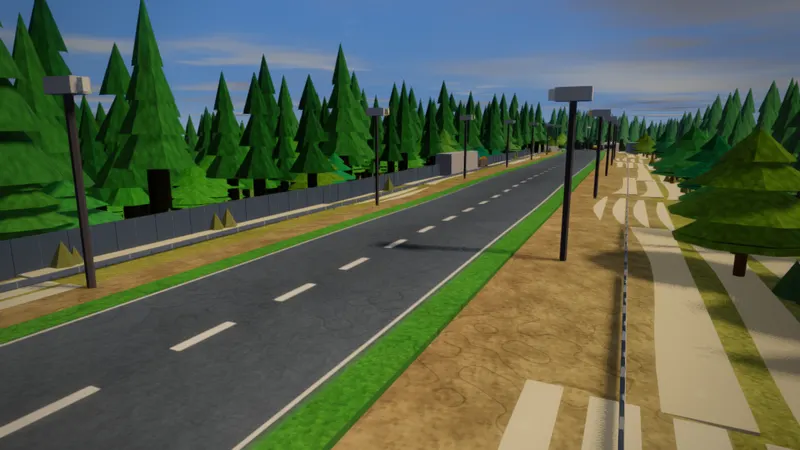
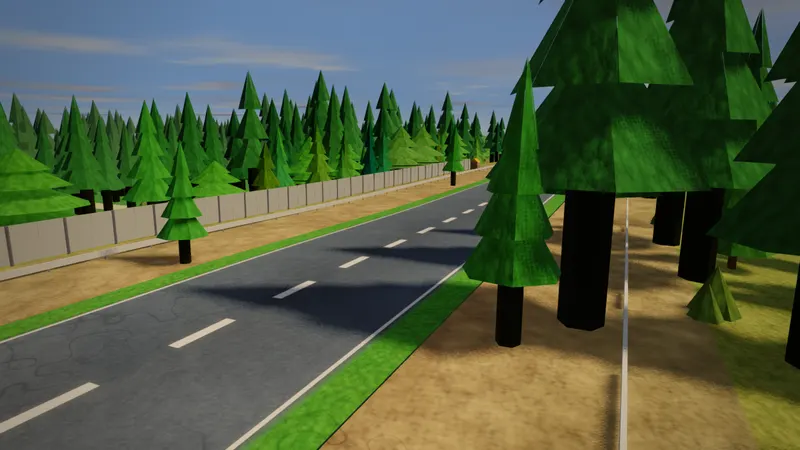
select: re-shot picker stills for imola, estoril, watkins_glen, baku, zolder (NOT APPROVED YET)
Awaiting Bryce's pick per circuit on the contact sheet
https://claude.ai/artifact/8LHixg5EppYyC7BfCRCj9h. A "keep" restores
today's 800 px file and puts the id back in STILL_1X_ONLY.

- Shot with tools/gen/track-stills.mjs after #5484 (fixed capture wait,
  per-circuit aims), SwiftShader, 1600x900, both files from one capture.
- js/ui/select-screen.js STILL_1X_ONLY empties: every circuit has a 2x file.
- hero-still-density: the one-request case iterates STILL_1X_ONLY instead of
  naming zolder and imola.

Claude-Session: https://claude.ai/code/session_01BEw9UGsBKg1bnnXiq5ANFd

diff --git a/js/ui/select-screen.js b/js/ui/select-screen.js
@@ -1158,7 +1158,7 @@ watchHero(document.getElementById("sel-hero"));
 let stillToken = 0;
 // Hero ~ full width: a DPR-3 phone takes the 1600 px file (#5223). STILL_1X_ONLY have no 2x file.
 const STILL_SIZES = "100vw";
-const STILL_1X_ONLY = ["baku", "estoril", "imola", "watkins_glen", "zolder"];
+const STILL_1X_ONLY = [];
 /** "" = the 800 px file only (no 2x file, Save-Data, 2G). */
 function stillSrcset(id, conn) {
   if (STILL_1X_ONLY.includes(id) || (conn && (conn.saveData || /2g$/.test(conn.effectiveType || "")))) return "";
